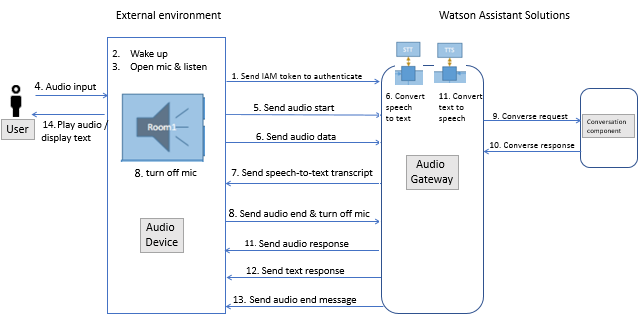
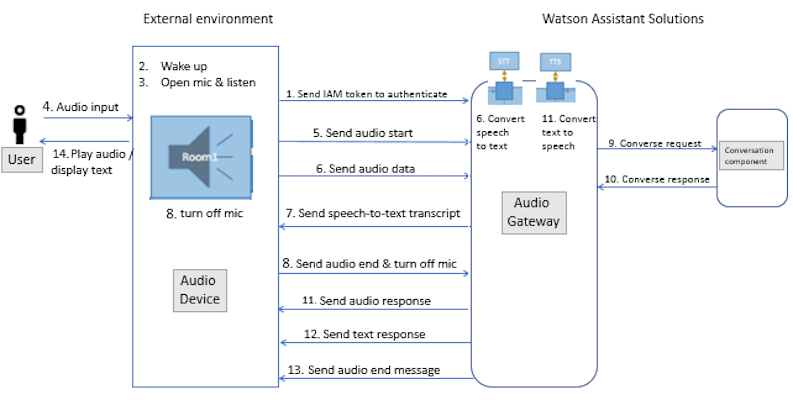
fixes problem with images being too small to read

diff --git a/src/css/block/content.css b/src/css/block/content.css
@@ -80,7 +80,7 @@
   }
 
   &__body-text {
-    max-width: 40.5rem;
+    max-width: 60.5rem;
     padding-left: 6rem;
 
     /*

diff --git a/_content/skill/skill_features.md b/_content/skill/skill_features.md
@@ -14,6 +14,7 @@ During a conversation, a skill may prompt for more information from the end-user
 For example:
 
 _Figure 1 - setting the in conversation flag_
+
 ![in conversation]({{site.baseurl}}/images/inconversation.png)
 
 In figure 1, the traffic skill asks the user which region the user wants the traffic news for.  The traffic skill sets an in conversation flag to notify the Watson Assistant Solutions routing core that it is in a conversation and that it is expecting a response. Otherwise, another skill, such the events skill, might return a higher confidence score and process the utterance.
@@ -21,16 +22,17 @@ In figure 1, the traffic skill asks the user which region the user wants the tra
 ##### Sample code
 ```
 //The 'in conversation' flag is set to True
-    'get-traffic': (request, response, context) => {
-		response.setInConversation(true);
-		response.deleteSkillSession(false).say('In the city center or suburbs')send();
-	},
+'get-traffic': (request, response, context) => {
+    response.setInConversation(true);
+    response.deleteSkillSession(false).say('In the city center or suburbs')send();
+},
 ```
 
 #### Routing by intents or entities
 You can route the conversation using intents.  In your skill, you can define responses to give when specific intents are detected in the utterance.
 
 _Figure 2 - routing by intent_
+
 ![in conversation]({{site.baseurl}}/images/routing_by_intent2.png)
 
 In figure 2, the `#get_roadworks` intent is detected and a list of roadworks is provided in the response.
@@ -40,6 +42,7 @@ You can also route the conversation using entities.  For example:
 - You might route on an entity if only an entity is provided in the utterance.
 
 _Figure 3 - routing by entities_
+
 ![Routing by entities]({{site.baseurl}}/images/routing_by_entities2.png)
 
 In figure 3, the routing core routes based on a @trafficarea entity.  A different response is provided depending on whether the value is city center or suburbs.
@@ -49,7 +52,7 @@ When routing by entities, in the `actions.js` file, actions in the entities sect
 // pre processing for entity based routing
 entities: (request, response, context) => {
     handler.converse(request, response, context, converseCallback);
-}
+},
 ```
 
 #### Routing by skill context
@@ -58,6 +61,7 @@ You can use context variables when you evaluate a request. For example:
 - You can use context variables to determine what response to give.
 
 _Figure 4 - routing by skill context_
+
 ![Routing by skill context]({{site.baseurl}}/images/skill_context_ex.PNG)
 
 In figure 4, the end-user asks about traffic diversions.  At step 2, the skill sets `$traffic_interest` variable to diversions.  Later in the conversation, when the user asks to see a map at step 7, the skill checks the `$traffic_interest` variable and responds with a map of roadworks and diversions.
@@ -68,6 +72,7 @@ The skill context is saved by Watson Assistant Solutions and can be passed to a 
 Variables that are set in the session context are available to all skills.
 
 _Figure 5 - routing by session context_
+
 ![Routing by session context]({{site.baseurl}}/images/skill_session_context_ex.PNG)
 
 In figure 5, at step 2, the traffic skill saves the region of interest, Central Park, to a `$region` variable in the session context. Later in the conversation at step 7, the user asks "Are there any outdoor concerts on there today".  The utterance is routed to a different skill this time.  The events skill returns the highest confidence score. The events skill uses the `$region` variable to determine what response to provide to the utterance.  The events skill returns a response based on the Central Park region.
@@ -78,6 +83,7 @@ A skill can use the utterance context when it evaluates a request and when it de
 In certain circumstances, you might want the skill to reject an utterance that it is equipped to handle.  For example, the traffic skill is designed to handle the `#get_map` intent. The goal of this intent is to display a live traffic map.  On evaluation, the skill returns a confidence level above its threshold value. However, you want the traffic skill to display a map if the user is at home and not if they are in their car.  You can design your skill to call the reject utterance function in the evaluation request.
 
 _Figure 6 - reject evaluation per utterance context_
+
 ![Rejecting an utterance based on the utterance context]({{site.baseurl}}/images/reject_utterance2.png)
 
 In figure 6, when `$location` in utterance context is set to at home, the evaluation request is processed. Later in the conversation, when `$location` in utterance context is set to _in the car_, the evaluation request is rejected.
@@ -87,11 +93,12 @@ In figure 6, when `$location` in utterance context is set to at home, the evalua
 ```
 //Example of rejecting an utterance evaluation request based on utterance context
 evaluation: (request, evaluationResponse, context) => {
-if(context.utterance.location && context.utterance.location !== 'car') {
-	evaluationResponse.rejectUtterance().send();
-}
-else {
-	handler.evaluateRequest(request, evaluationResponse, context, evaluationCallback);
+    if (context.utterance.location && context.utterance.location !== 'car') {
+        evaluationResponse.rejectUtterance().send();
+    }
+    else {
+        handler.evaluateRequest(request, evaluationResponse, context, evaluationCallback);
+    },
 },
 ```
 
@@ -99,6 +106,7 @@ else {
 No matter how broad a knowledge base your assistant has, cicumstances will arise that your skills do not have the knoweldge to handle.  In your responses, you can provide a more elegant response than "I'm not trained for this".
 
 _Figure 7 - routing to a fallback skill_
+
 ![Routing to a fallback skill]({{site.baseurl}}/images/fallback.png)
 
 In figure 7, at step 2, the user is reminded of the type of questions to ask.
@@ -110,10 +118,10 @@ To configure a fallback skill, complete these steps:
 3.  Add the skill to a skill set and tag it as a fallback skill.  For example, in skillsData, set:
 ```
 {
- "fallback": true,
- "skillNames": [
-   "place-skill-name-here"
- ]
+  "fallback": true,
+  "skillNames": [
+    "place-skill-name-here"
+  ]
 }
 ```
 A fallback skill is created.

diff --git a/_content/ifttt/how_ifttt_works.md b/_content/ifttt/how_ifttt_works.md
@@ -8,7 +8,9 @@ When an utterance that matches the trigger is received by Watson Assistant Solut
 
 ### Evaluation request
 Figure 1 shows how an evaluation request is handled for an IFTTT trigger.
+
 ![Evaluation]({{site.baseurl}}/ifttt/evaluation_flow.PNG)
+
 1.  A converse request that matches a trigger in an IFTTT applet is sent to the Watson Assistant Solutions core routing component.
 2. The core routing component sends the utterance to all skills for evaluation.
 3. The IFTTT skill requests the list of triggers for the user specified in the utterance from the IFTTT service.
@@ -17,7 +19,9 @@ Figure 1 shows how an evaluation request is handled for an IFTTT trigger.
 
 ### Converse request
 Figure 2 shows how a converse request is handled for an IFTTT trigger.
+
 ![converse]({{site.baseurl}}/ifttt/converse_flow.PNG)
+
 1. The routing core component of Watson Assistant Solutions routes the utterance to the IFTTT skill for processing.
 2. The skill executes the following `fire-trigger` action that is defined in the `action.js` file.  It passess the trigger ID that was passed in the evaluation response.
 `'fire-trigger': (request, response, context) => { axios.post(iftttServiceEndpoint + "/invoke_wa_trigger", {trigger_id:request.evaluationResponse.response.triggerId}, {headers:{'ifttt-skill-key':manifest['ifttt-skill-key']}}).then((response) => { }).catch((err)=>{ console.error("invoke_wa_trigger " + err.message); }); response.say(handler.t(request.evaluationResponse.response.triggerFields.answer)).send(); }`

diff --git a/_content/ifttt/what-is-ifttt.md b/_content/ifttt/what-is-ifttt.md
@@ -5,7 +5,9 @@ weight: 5
 IFTTT (If This, Then That) is a software platform that you can use to automate the connection between your Watson Assistant Solutions service and the services from other providers.  To set up automated connections, a registered end-user creates an applet on the IFTTT platform.  The applet  connects a trigger (if this) with an action (then that).  For example, you can create an IFTTT applet that connects a Watson Assistant Solutions service with a Philips Hue service (see figure 1).<br/>
 
 Figure 1 – Connecting the Watson Assistant Solutions service with a Philips Hue Service
+
 ![Scenario]({{site.baseurl}}/ifttt/scenario.PNG)
+
 The trigger is an utterance made to your Watson Assistant Solutions assistant to “turn on the lights”.  The action is to turn on the lights using the Philips Hue service.
 
 The integration of Watson Assistant Solutions with the IFTTT platform is in alpha mode.  Initially, you can use Watson Assistant Solutions as the trigger and an external service on IFTTT as the action.  For more information about using IFTTT, see [IFTTT platform documentation](https://platform.ifttt.com/docs).

diff --git a/_content/audio_single/how_it_works_audio.md b/_content/audio_single/how_it_works_audio.md
@@ -5,7 +5,9 @@ weight: 10
 The audio client passes an auth token when it first connects to audio gateway to authenticate. For more information about client authentication, see the [Authenticating audio devices]({{site.baseurl}}/audio_single/audio_authentication/) topic.
 
 For a single-tenant audio gateway, the flow for processing audio and IoT control in Watson Assistant Solutions is shown in figure 1.
+
 ![audio flow]({{site.baseurl}}/audio_single/flow_single.PNG)
+
 The steps in this flow are as follows:
 1. The audio client sends user credentials to the audio gateway and the gateway authenticates the client.
 2. The audio client establishes a web socket connection to the audio gateway using the auth token.

diff --git a/_content/understand-service/how-it-works.md b/_content/understand-service/how-it-works.md
@@ -5,7 +5,9 @@ weight: 50
 You can configure skills to react to user utterances.
 
 The flow of the conversation between the user and the Watson Assistant Solutions service in the reactive scenario is depicted in figure 1.
+
 ![Routing flow]({{site.baseurl}}/images/routing_flow.png)
+
 1. An IOT device routes a captured utterance to the Watson Assistant Solutions service.
 2. The routing component of the Watson Assistant Solutions service sends the utterance to all registered skills for evaluation.
 3. Each skill assesses its capability of delivering a response and returns a confidence score.

diff --git a/_content/audio/how_it_works_audio.md b/_content/audio/how_it_works_audio.md
@@ -7,7 +7,9 @@ The audio client passes an IAM token when it first connects to audio gateway to 
 For a multi-tenant audio gateway, the flow for processing audio input in Watson Assistant Solutions is shown in figure 1.
 
 Figure 1 - audio flow
+
 ![audio flow]({{site.baseurl}}/audio/flow.PNG)<br/>
+
 The steps in this flow are as follows:
 1. When it turns on, the audio client sends an IAM token to the audio gateway and the gateway authenticates the client.
 2. The audio client processes a wake-up command.

diff --git a/_content/understand-service/overview.md b/_content/understand-service/overview.md
@@ -5,7 +5,9 @@ weight: 10
 Multiple components are used to build a digital assistant using the Watson Assistant Solutions offering.
 
 The components are shown in figure 1:
+
 ![]({{site.baseurl}}/images/components_diagram.png)
+
 - **IOT devices**:  The edge device, such as a smart speaker, that listens for utterances.
 - **Watson Assistant Solutions service**:  The service includes the following components:
   - set of built-in skills
